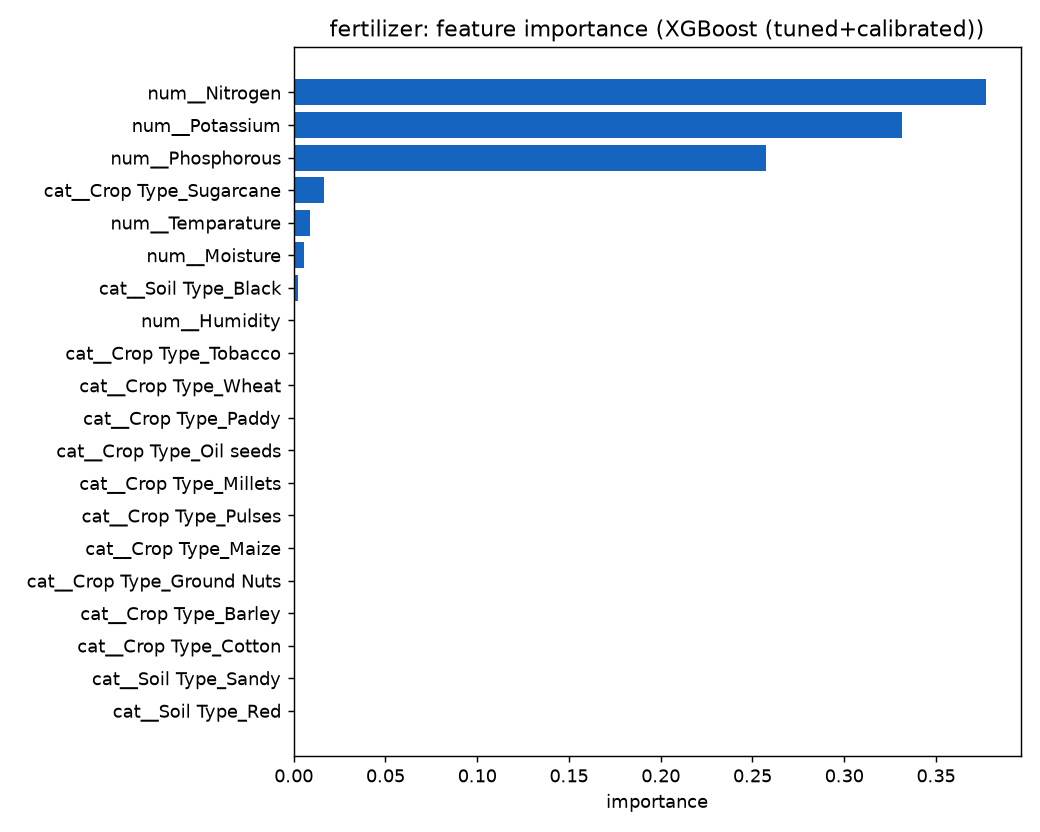
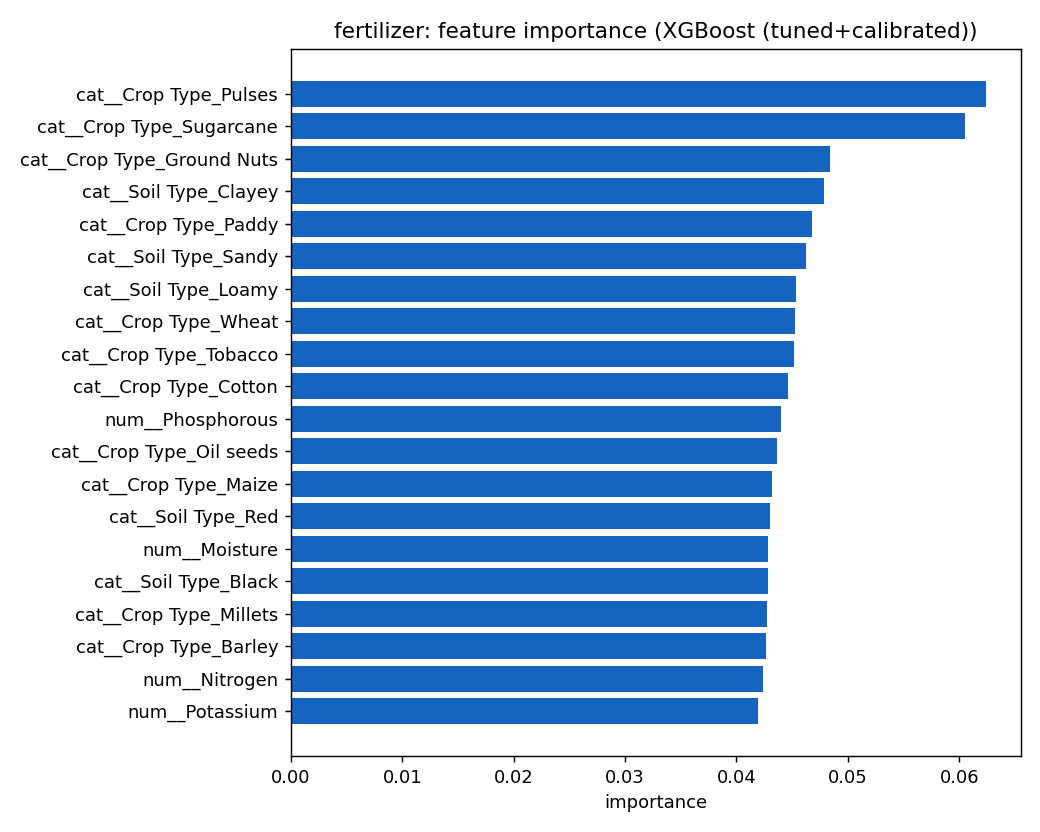
Fertilizer classifier v2 trained on the 750k-row S5E6 table (Kaggle CPU): tuned+calibrated XGBoost, honest hold-out top-1 0.201 / MAP@3 0.338; metrics, card and plots

diff --git a/models/reports/fertilizer_card.md b/models/reports/fertilizer_card.md
@@ -1,16 +1,15 @@
 # Fertilizer model card
 
-_Generated by `python -m ml.train_tabular` on 2026-09-08._
+_Generated by `python -m ml.train_tabular` on 2026-09-30._
 
 ## Data
 
-- **Dataset**: Fertilizer Prediction (Kaggle)
-- **File**: `data/Fertilizer Prediction.csv`
-- **Rows used**: 99
-- **Source**: https://www.kaggle.com/datasets/gdabhishek/fertilizer-prediction
-- **Licence**: CC0 1.0 Public Domain
-- **Note**: 99 rows, one per (soil, crop, product) combination - effectively a lookup table.
-- **WARNING**: FALLBACK dataset: 99 rows, effectively a lookup table. Metrics are memorisation, not generalisation.
+- **Dataset**: Kaggle Playground Series S5E6 - Predicting Optimal Fertilizers
+- **File**: `/kaggle/input/competitions/playground-series-s5e6/train.csv`
+- **Rows used**: 750,000
+- **Source**: https://www.kaggle.com/competitions/playground-series-s5e6
+- **Licence**: Kaggle competition rules (non-commercial research use)
+- **Note**: 750 k synthetic rows with the same schema as the 99-row file; the winning public MAP@3 was ~0.38, so ~0.35 is a good score, not a broken model.
 
 ## Model
 
@@ -23,18 +22,10 @@ _Generated by `python -m ml.train_tabular` on 2026-09-08._
 
 | Model | CV accuracy | Hold-out accuracy | Hold-out MAP@3 |
 | --- | --- | --- | --- |
-| RandomForest | 0.9492 | 1.0000 | 1.0000 |
-| GradientBoosting | 0.9358 | 0.9500 | 0.9500 |
-| XGBoost | 0.9617 | 1.0000 | 1.0000 |
-| SVM | 0.3425 | 0.4500 | 0.6417 |
-| KNN | 0.2517 | 0.2500 | 0.5000 |
-| DecisionTree | 0.9500 | 0.9500 | 0.9500 |
-| GaussianNB | 0.5425 | 0.5500 | 0.6000 |
-| XGBoost (tuned+calibrated) **(shipped)** | 0.9367 | 1.0000 | 1.0000 |
+| XGBoost | 0.1971 | 0.1960 | 0.3325 |
+| XGBoost (tuned+calibrated) **(shipped)** | 0.2013 | 0.2009 | 0.3379 |
 
-Selection: XGBoost (tuned+calibrated) is within one CV standard deviation of XGBoost (0.0250 <= 0.0313) and its probabilities are calibrated, so it is shipped.
-
-Shipped model hold-out top-1 accuracy **1.0000**, MAP@3 **1.0000** — **but do not quote that number.** Its accuracy was measured on a 99-row lookup table with one row per soil/crop/product combination, so it is memorisation and does not generalise.
+Shipped model hold-out top-1 accuracy **0.2009**, MAP@3 **0.3379**.
 
 ## Limitations
 
